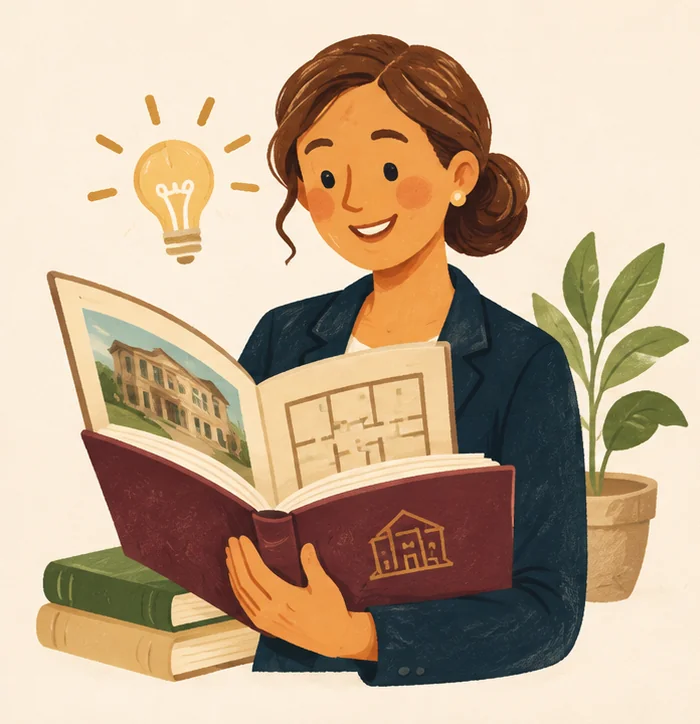
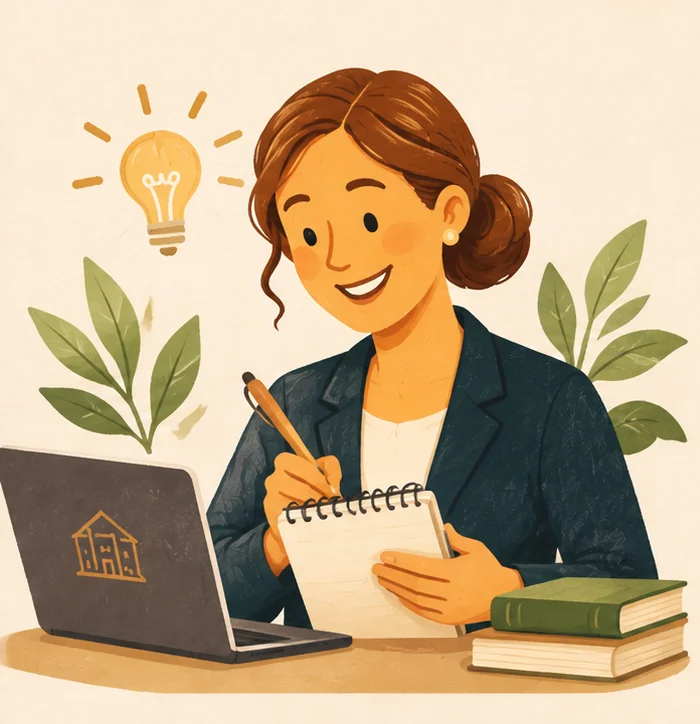
Swap in the new knowledge gap illustration
Claude-Session: https://claude.ai/code/session_01CFFWwkisFJP6PcDRm7nKND

diff --git a/src/components/Analyze.tsx b/src/components/Analyze.tsx
@@ -12,7 +12,7 @@ type Diagnosis = "Skill" | "Knowledge + skill" | "Skill + system";
 // The illustration for each diagnosis shows its leading gap.
 const art: Record<Diagnosis, { src: string; alt: string }> = {
   Skill: { src: gapSkill, alt: "A leasing associate guiding a prospect through a bright apartment" },
-  "Knowledge + skill": { src: gapKnowledge, alt: "A leasing associate studying a property book with a floor plan" },
+  "Knowledge + skill": { src: gapKnowledge, alt: "A leasing associate taking notes at a laptop next to a stack of books" },
   "Skill + system": { src: gapSystem, alt: "A leasing associate checking off steps on a tablet next to a calendar and keys" },
 };
 
